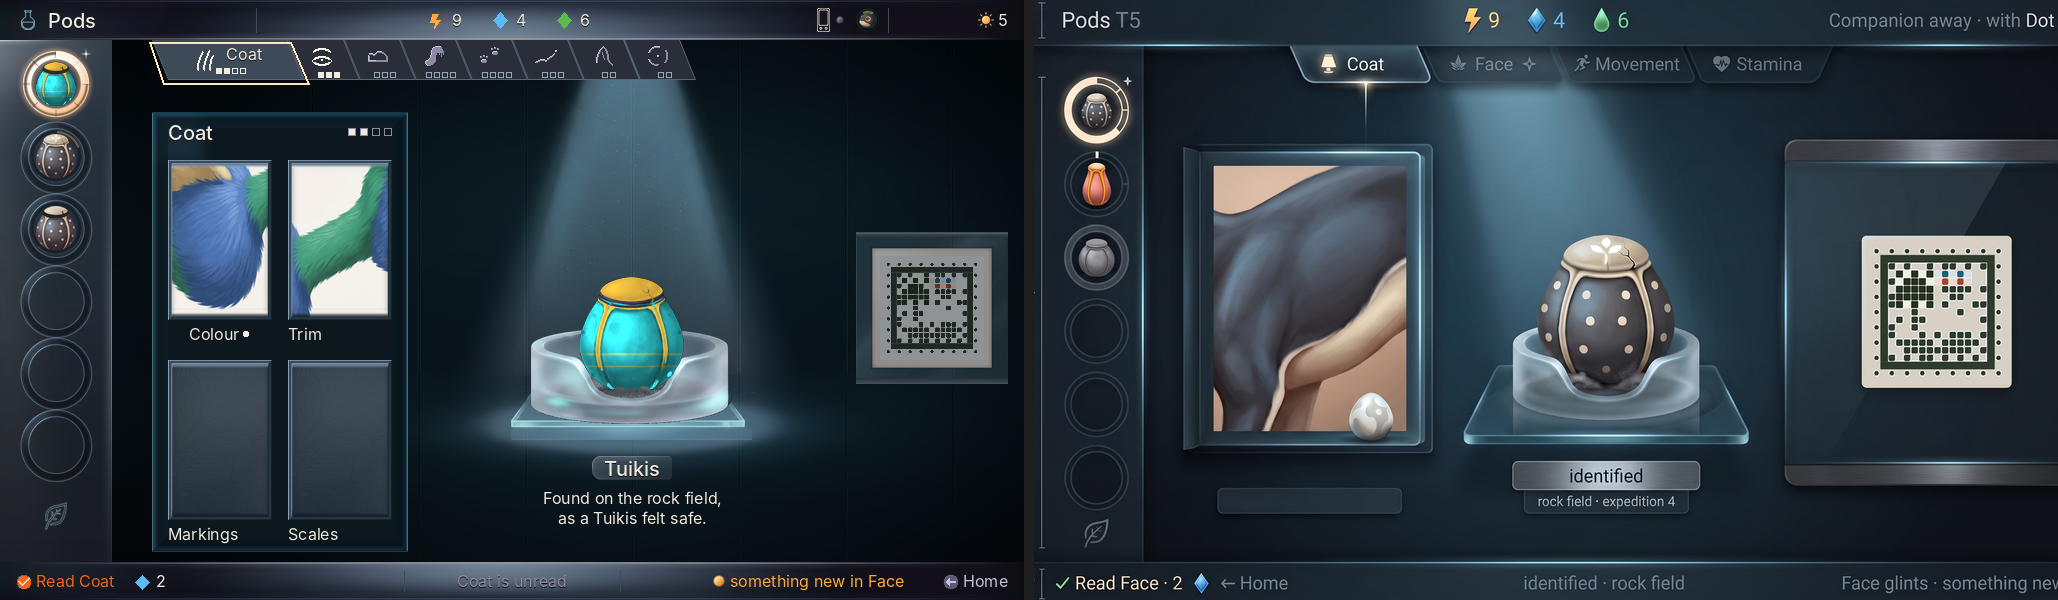
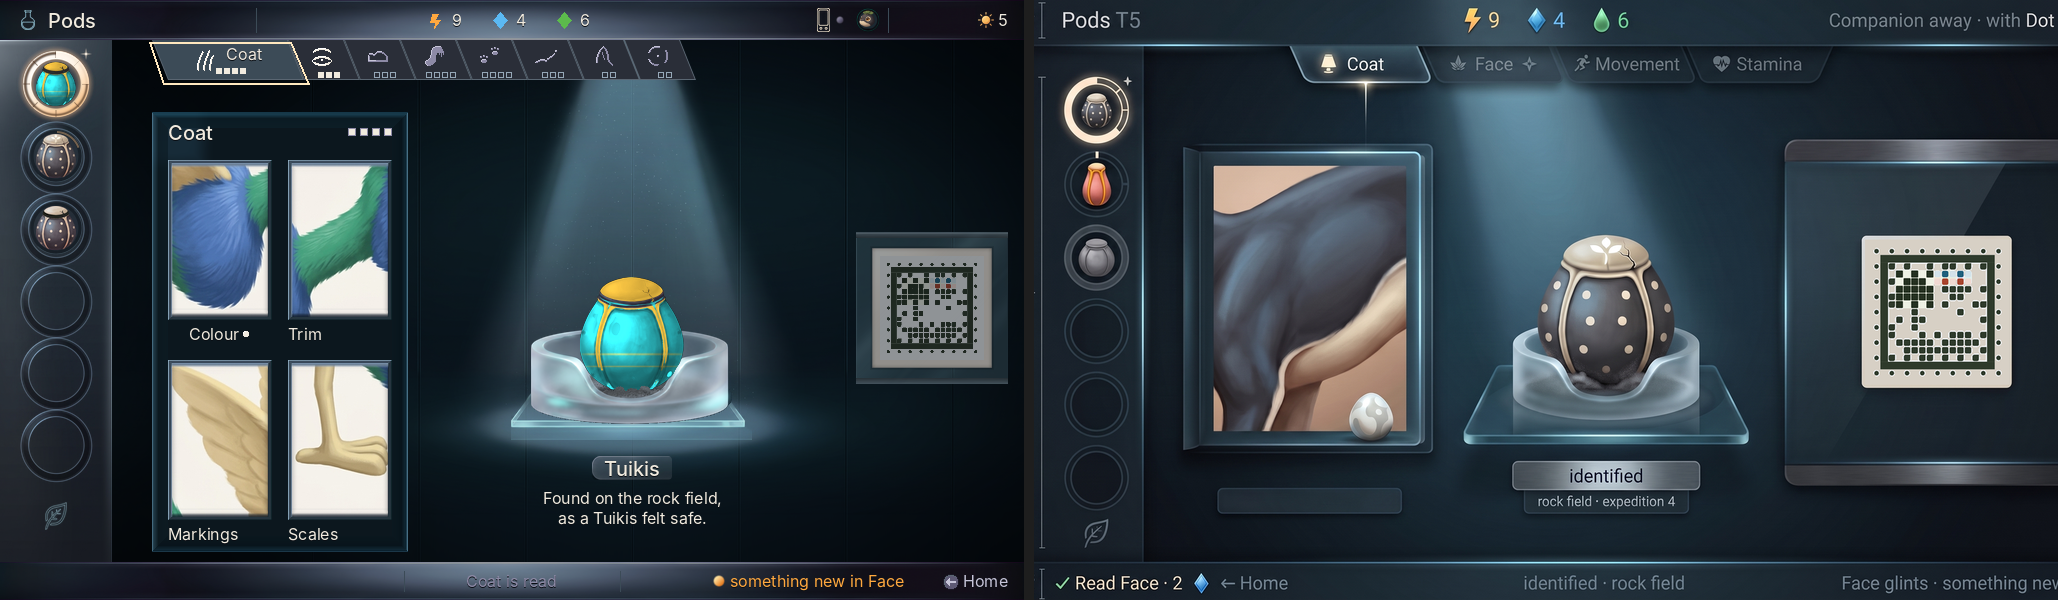
Pods masters pass 18: the Read composite a read chapter, a third composite with an unread chapter open

Changed region(s): [[0.0622, 0.6, 0.1866, 0.87], [0.0, 0.96, 0.0933, 0.99], [0.2177, 0.96, 0.2799, 0.99]]

diff --git a/art/station-masters/pods/tools/compose.py b/art/station-masters/pods/tools/compose.py
@@ -29,13 +29,13 @@ def compose(traits, rail):
         d.text(xy, s, font=font, fill=fill, anchor=anchor)
     put("room-bench-stage", 0, 40); put("ring-column-112x522", 0, 40)
     # the wells: a ring slice at (24, 44 + 72 i), the pod 32x48 centred in it, the arcs on the inner edge; a glint star at the selected ring's upper right
-    pods = {0: "pod-well-identified", 1: "pod-well-identified", 2: "pod-well-sealed"}; lit = {0: (8, 2 if rail == "six" else 3), 1: (5, 1), 2: (4, 0)}
+    pods = {0: "pod-well-identified", 1: "pod-well-identified", 2: "pod-well-sealed"}; lit = {0: (8, {"six": [0, 1], "unread": [1], "compact": [0, 1, 2]}[rail]), 1: (5, [0]), 2: (4, [])}
     for i in range(6):
         y = 44 + 72 * i; sel = i == 0; st = "selected" if sel else "idle"
         put("ring-well-selected-80x80" if sel else "ring-well-idle-80x80", 16, y)
         if i in lit:
             n, k = lit[i]; put(f"ring-arc-{st}-n{n}-track", 16, y)       # selected: the open channel over the solid band; idle: the groove
-            for j in range(k): put(f"ring-arc-{st}-n{n}-s{j}", 16, y)    # a read chapter: the solid band (selected) or the dim line (idle)
+            for j in k: put(f"ring-arc-{st}-n{n}-s{j}", 16, y)    # a read chapter: the solid band (selected) or the dim line (idle)
         if i == 0: cv.alpha_composite(recol("well", *TUIKIS), (36, 60))
         elif i in pods: put(pods[i], 36, 60 + 72 * i)
     put("glint-star-12x12", 16 + 40 + 30 - 6, 44 + 40 - 30 - 6)
@@ -46,8 +46,8 @@ def compose(traits, rail):
     text((632, 498), "Found on the rock field,", f16, BONE, "mm"); text((632, 518), "as a Tuikis felt safe.", f16, BONE, "mm")
     put("room-stamp-case-152x152", 856, 232); put("stamp-label-120x120", 872, 248); cv.alpha_composite(Image.open("../../concept-station/pods-v2/layout/stamp-hopper-bench-300.png").convert("RGBA").resize((104, 104), Image.NEAREST), (880, 256)); put("room-stamp-case-152x152-front", 856, 232)
     # the page, 256 wide: one state, a grid of the chapter's traits
-    put("page-pane-256x440", 152, 112); text((168, 120), "Coat" if rail == "six" else "Shape", f20, CREAM)
-    for k in range(traits): x = 408 - 8 - 12 * (traits - 1 - k) - 16; d.rectangle([x, 128, x + 7, 135], fill=CREAM if (rail == "compact" or k < 2) else None, outline=MIST)
+    put("page-pane-256x440", 152, 112); text((168, 120), "Shape" if rail == "compact" else "Coat", f20, CREAM)
+    for k in range(traits): x = 408 - 8 - 12 * (traits - 1 - k) - 16; d.rectangle([x, 128, x + 7, 135], fill=CREAM if rail != "unread" else None, outline=MIST)
     def namenew(xy, word):      # the name and the new dot centred together: the dot 4 px after the name, its centre on the line's middle (a 20 px line)
         tw = d.textlength(word, font=f16); x0 = int(xy[0] - (tw + 4 + 6) / 2)
         text((x0, xy[1]), word, f16, CREAM); put("page-mark-new-10", int(x0 + tw + 4), xy[1] + 10 - 3)
@@ -65,12 +65,12 @@ def compose(traits, rail):
         px, py = 168 + (224 - 144) // 2, 160 + 40
         cv.alpha_composite(pic(144, 176), (px, py)); put("trait-picture-frame-144x176", px, py); namenew((280, py + 184), "Spots")
     else:
-        for k, (cx, cy, st) in enumerate(((168, 160, "read"), (288, 160, "read"), (168, 360, "read" if rail == "compact" else "unread"), (288, 360, "read" if rail == "compact" else "unread"))[:traits]):
+        for k, (cx, cy, st) in enumerate(((cx_, cy_, "unread" if rail == "unread" else s_) for cx_, cy_, s_ in ((168, 160, "read"), (288, 160, "read"), (168, 360, "read"), (288, 360, "read"))[:traits])):
             if st == "read": cv.alpha_composite(belatz(rail, k), (cx, cy)); put("trait-picture-frame-104x160", cx, cy)
             else: put(f"trait-picture-frame-104x160-{st}", cx, cy)
-            (namenew((cx + 52, cy + 164), "Build" if rail == "compact" else "Colour") if k == 0 else text((cx, cy + 164), (("Build", "Haunch", "Topline") if rail == "compact" else ("Colour", "Trim", "Markings", "Scales"))[k], f16, CREAM))
+            (namenew((cx + 52, cy + 164), "Build" if rail == "compact" else "Colour") if (k == 0 and rail != "unread") else text((cx, cy + 164), (("Build", "Haunch", "Topline") if rail == "compact" else ("Colour", "Trim", "Markings", "Scales"))[k], f16, CREAM))
     # the rail: tabs hang from the bar at y 40 and touch along their slants
-    TUI = [("Coat", 4), ("Face", 3), ("Shape", 3), ("Legs & Tail", 4), ("Movement", 4), ("Stamina", 3), ("Character", 2), ("Glow", 2)]; open_i = 0 if rail == "six" else 2      # the eight chapters of a Tuikis (S03), one open and read
+    TUI = [("Coat", 4), ("Face", 3), ("Shape", 3), ("Legs & Tail", 4), ("Movement", 4), ("Stamina", 3), ("Character", 2), ("Glow", 2)]; open_i = 2 if rail == "compact" else 0      # the eight chapters of a Tuikis (S03), one open and read
     tabs = [(w_, "focused" if i_ == open_i else ("read" if i_ < 2 else "unread"), p_) for i_, (w_, p_) in enumerate(TUI)]
     x = 152; ring = None
     for i, (word, st, pips) in enumerate(tabs):
@@ -82,7 +82,7 @@ def compose(traits, rail):
         if full:
             tw = d.textlength(word, font=f16); bx = x + 76 - (32 + tw) / 2
             cv.alpha_composite(S(f"rail-emblem-{CID[word]}-{es}-24x24"), (int(bx), 48)); text((bx + 32, 54), word, f16, pc if st != "sealed" else MIST, "lm")
-            for p in range(pips): px = int(x + 80 - pips * 4 + 8 * p); d.rectangle([px, 68, px + 5, 73], fill=pc if st in ("read", "focused") and p < (pips if rail == "compact" or st == "read" else 2) else None, outline=pc)
+            for p in range(pips): px = int(x + 80 - pips * 4 + 8 * p); d.rectangle([px, 68, px + 5, 73], fill=pc if st in ("read", "focused") and p < (pips if rail != "unread" else 2) else None, outline=pc)
         else:
             cv.alpha_composite(S(f"rail-emblem-{CID[word]}-{es}-24x24"), (x + 34 - 12, 44))
             for p in range(min(pips, 4)): px = int(x + 42 - min(pips, 4) * 4 + 8 * p); d.rectangle([px, 72, px + 5, 77], fill=pc if st in ("read", "focused") else None, outline=pc)
@@ -99,15 +99,15 @@ def compose(traits, rail):
     put("frame-companion-outline-16x24", 816, 8); put("frame-lamp-8-stone", 836, 16); put("face-loika-24-away", 856, 8)
     tw5 = d.textlength("5", font=f16); put("frame-sun-16", int(1008 - tw5 - 4 - 16), 12); text((1008, 20), "5", f16, CREAM, "rm")
     # the bottom line: the one action, the context, the notice
-    if rail == "six":      # the open Coat is unread (two of four traits read): the verb returns; a read chapter (the Grid composite) has no verb and no cap
+    if rail == "unread":      # an unread chapter open: the verb returns; a read chapter (the other two composites) has no verb and no cap
         put('frame-cap-confirm-16', 16, 574); text((36, 581), "Read Coat", f16, ORANGE, "lm")
         vw = d.textlength("Read Coat", font=f16); gx = int(36 + vw + 24)
         d.polygon([(gx + 4, 575), (gx + 11, 582), (gx + 4, 589), (gx - 3, 582)], fill=(91, 185, 243, 255)); text((gx + 18, 581), "2", f16, CREAM, "lm")
     hw = d.textlength("Home", font=f16); hx = int(1008 - hw - 4 - 16); put('frame-cap-back-16', hx, 574); text((1008, 581), "Home", f16, FOG, "rm")
-    text((512, 581), "Coat is unread" if rail == "six" else "Shape is read", f16, MIST, "mm")
+    text((512, 581), {"six": "Coat is read", "unread": "Coat is unread", "compact": "Shape is read"}[rail], f16, MIST, "mm")
     nw = d.textlength("something new in Face", font=f16); put("frame-lamp-12-amber", int(904 - nw - 4 - 12), 575); text((904, 581), "something new in Face", f16, AMBER, "rm")
     for xx in (404, 620): d.line([(xx, 571), (xx, 591)], fill=HAIR)
     return cv.convert("RGB")
-a = compose(4, "six"); a.save("composite-pods-read-1024x600.png")
+a = compose(4, "six"); a.save("composite-pods-read-1024x600.png"); compose(4, "unread").save("composite-pods-unread-1024x600.png")
 compose(3, "compact").save("composite-pods-grid-1024x600.png")
 side = Image.new("RGB", (2058, 600), (30, 30, 30)); side.paste(a, (0, 0)); side.paste(cand.convert("RGB"), (1034, 0)); side.save("composite-vs-candidate.png")

diff --git a/art/station-masters/pods/README.md b/art/station-masters/pods/README.md
@@ -336,6 +336,11 @@ Each slice is named by the register id it replaces (`room`, `ring`, `page`, `tra
 
 <!-- end of the generated Slices section -->
 
+## Pass 18 - a read is a whole chapter
+
+Corrected after the game designer's rule (a read is always a whole chapter; inside a read chapter no trait is unread). The pass 16 Read composite, with two read and two frosted cells in one chapter, showed a state the game never has, and is withdrawn. Three proofs now: `composite-pods-read-1024x600.png` (Coat open and read: four different pictures, the read-again bottom line, "Coat is read", all pips and dots filled, the ring showing Coat and Face read), `composite-pods-grid-1024x600.png` (the Shape page, read) and `composite-pods-unread-1024x600.png` (Coat open and unread: every cell the frosted frame with no picture, the names only, no new dot, the pips and dots empty, the verb "Read Coat" with its cap and price, "Coat is unread", the ring showing only Face read). The pictures are still stand-ins from the Belatz side painting, each a different part, named for the part.
+
+
 ## Pass 17 - the tail (tail-a, tighter), the wells centred in the column
 
 - `rail-emblem-legs-tail-{unread,read,sealed}-24x24`: the art director's pick, tail-a, redone: the Gemini pictogram cropped to the tail's bounding box and fitted to 80 px in the 96 px source (`pipeline/in96/tail-a2-96.png`), one Retro Diffusion pixelate call to 24 (`pipeline/rd/tail-a2-rd.png`; a first attempt with an extended prompt came back as an unrelated creature and is kept as `tail-a2-attempt1-garbage.png`; 0.36 USD in `log/spend.json`), the silhouette cleaned on the 62 colours (`pipeline/clean/tail-a2.txt`), then edited by hand in `emblems/source/legs-tail.txt`: the lit edge only upper left (the teal rim gone: unread fog on mist, read white on bone, sealed flat), a solid root at the lower left, the bushy mass, an open tuft of three points at the right, never a loop. It is 20 wide and 20 tall. Honest reading at 1x: a bushy S-curved tail with three short prongs; the prongs hang down and read a little as drips rather than a brush. It is on both composites' tabs.
